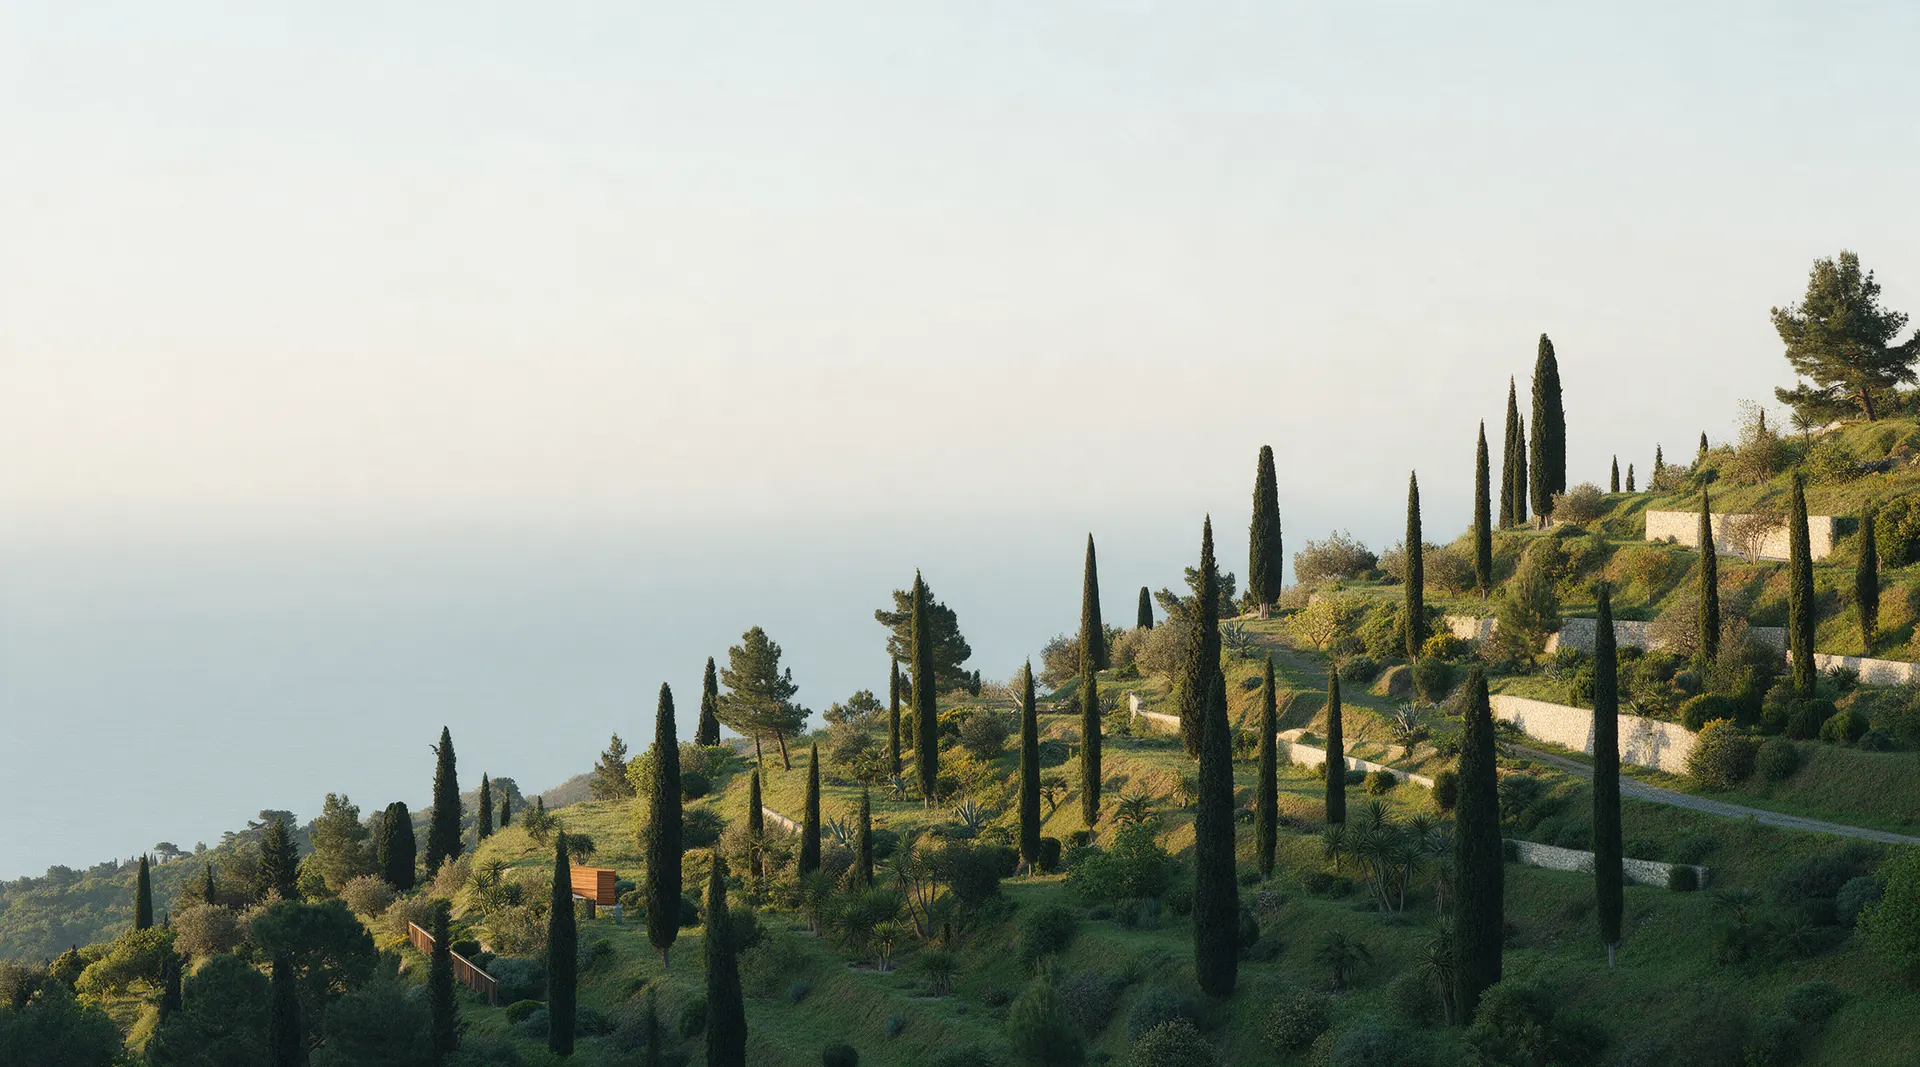
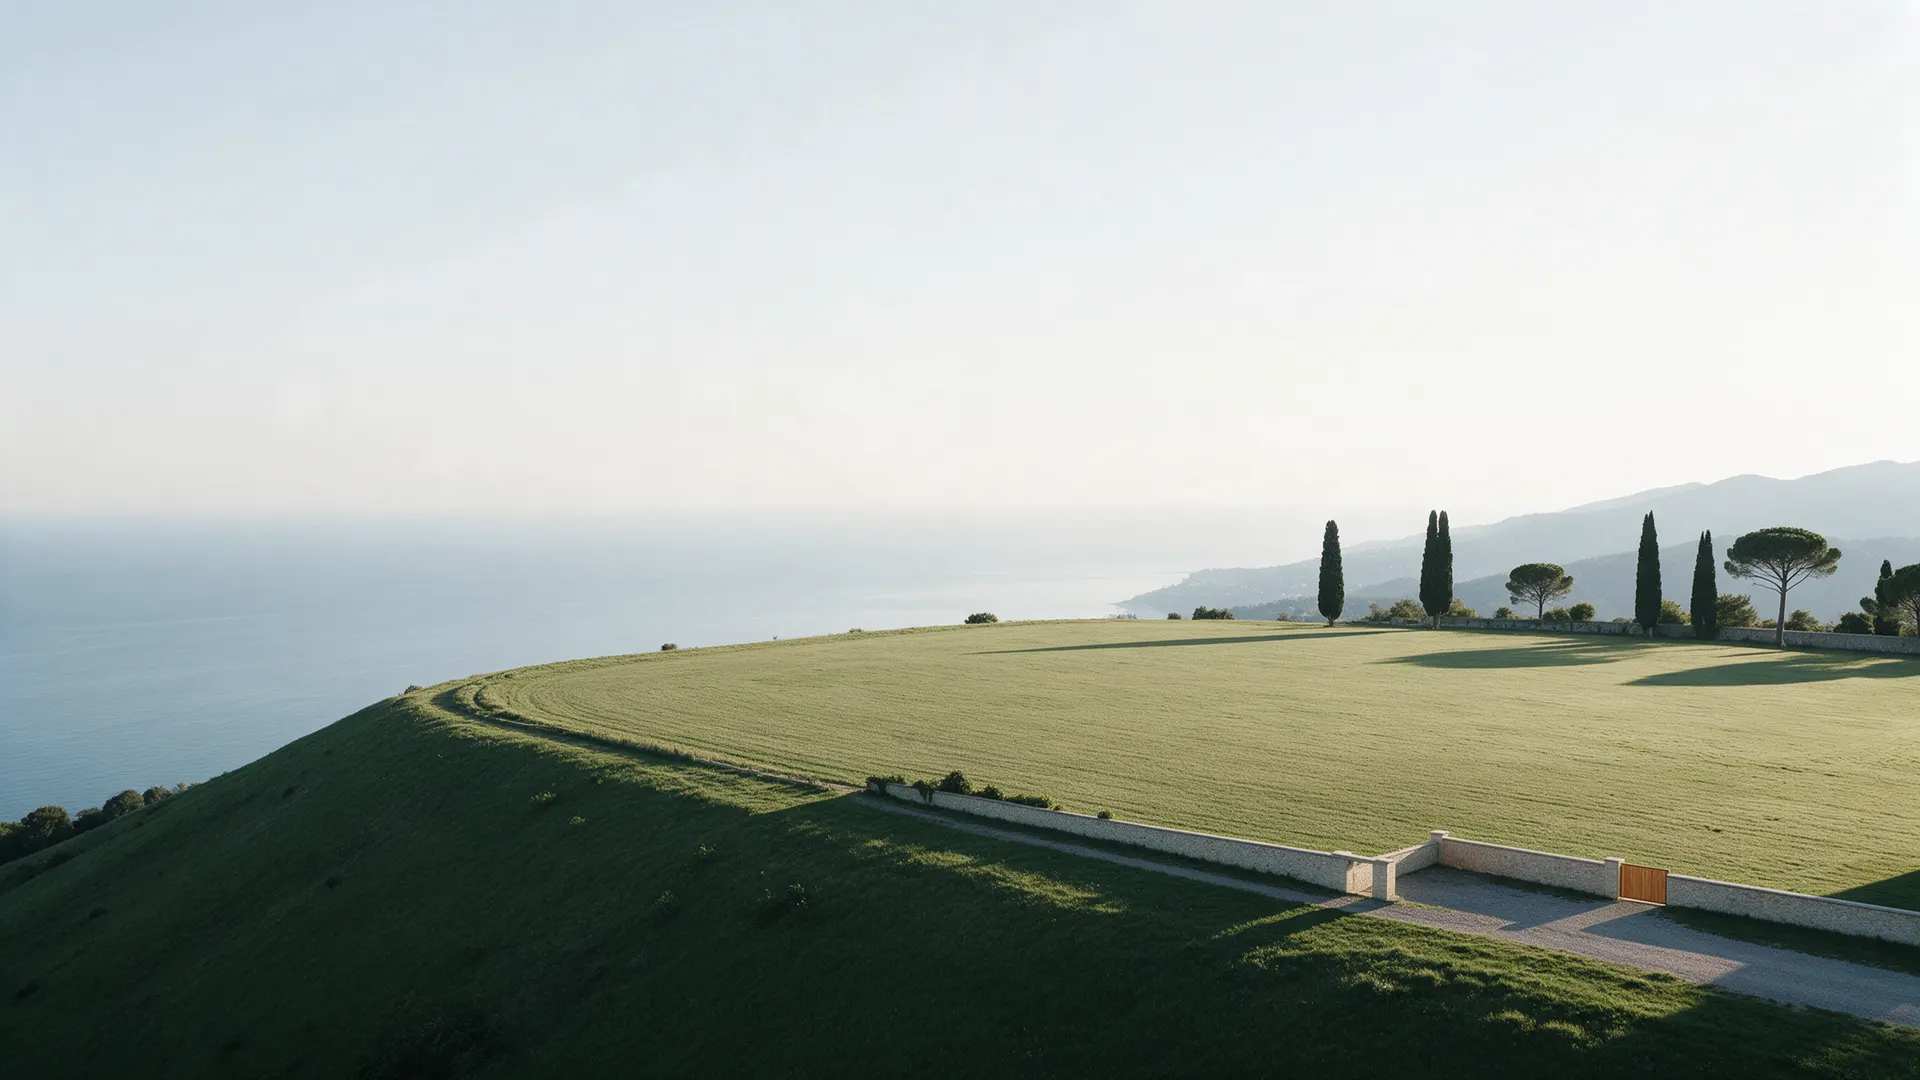
Первый экран: подъезд камеры к участку, новая картинка; полоса Живописные места рядом

diff --git a/index.html b/index.html
@@ -64,9 +64,14 @@
     .steps__title { top: 7.2rem !important; }
   }
 
-  /* ---- 1. первый экран: межа обходит участок ----------------------------- */
+  /* ---- 1. первый экран: камера подъезжает к участку ---------------------- */
+  .hero { --mx: .66; --my: .68; }                   /* где на фото стоит метка участка (доли кадра) */
   .hero [data-v-stage] { background: #c5d1cb; }
-  .hero__bg img { position: absolute; max-width: none; width: 112%; height: 112%; left: -6%; top: -6%; object-fit: cover; object-position: 58% 60%; content-visibility: visible; }
+  /* «мир» - кадр 16:9 с запасом 12%, как object-fit: cover; фото и метка живут в одних координатах */
+  .hero__world { position: absolute; left: 50%; top: 50%; width: max(112vw, calc(112svh * 16 / 9)); aspect-ratio: 16 / 9; translate: -50% -50%; }
+  .hero__zoom { position: absolute; inset: 0; transform-origin: calc(var(--mx) * 100%) calc(var(--my) * 100%);
+    transform: scale(calc(1 + var(--v-p, 0) * .42)); will-change: transform; }
+  .hero__zoom img { position: absolute; inset: 0; width: 100%; height: 100%; max-width: none; object-fit: cover; content-visibility: visible; }
   .hero__scrim { position: absolute; inset: 0; z-index: 2; pointer-events: none;
     background: linear-gradient(to right, rgb(233 236 230 / .9) 0%, rgb(233 236 230 / .6) 30%, rgb(233 236 230 / 0) 56%),
                 linear-gradient(to top, rgb(233 236 230 / .5) 0%, rgb(233 236 230 / 0) 26%); }
@@ -74,26 +79,56 @@
   .hero__copy h1 { max-width: 14ch; }
   .hero__copy .v-lede { margin-top: var(--v-5); max-width: 36ch; color: var(--v-ink); }
   .hero__copy .v-btn { margin-top: var(--v-6); }
-  .hero__plot { z-index: 3; }
-  .plotmap { position: absolute; right: calc(var(--v-gutter) + 1vw); top: 14vh; width: min(44vw, 40rem); aspect-ratio: 600 / 440; }
-  .plotmap svg { position: absolute; inset: 0; width: 100%; height: 100%; overflow: visible; }
-  .plotmap .halo, .plotmap .line { fill: none; stroke-linejoin: round; stroke-dasharray: 1 1; stroke-dashoffset: max(0, calc(.65 - var(--v-p, 0) * 1.3)); }
-  .plotmap .halo { stroke: rgb(255 255 255 / .75); stroke-width: 11; }
-  .plotmap .line { stroke: var(--v-accent); stroke-width: 5; }
-  .plotmap .area { fill: var(--v-accent); fill-opacity: clamp(0, calc(var(--v-p, 0) * .5), .22); }
-  .plotmap .stake { fill: var(--v-accent); stroke: #fff; stroke-width: 3; }
-  .plotmap__tag { white-space: nowrap; position: absolute; left: 46%; top: 3%; background: var(--v-surface); border-radius: var(--v-radius); box-shadow: var(--v-e2); padding: .6rem .85rem .65rem; line-height: 1.1; }
-  .plotmap__tag b { display: block; font-family: var(--v-font-display); font-size: 1.9rem; font-weight: 700; line-height: 1; }
-  .plotmap__tag span { display: block; margin-top: .25rem; font-size: var(--v-t-xs); color: var(--v-ink-soft); }
+  .hero__spot { z-index: 3; }
+  /* дымка расходится вокруг участка: фокус на метке, края светлеют */
+  .hero__fog { position: absolute; inset: -100%; pointer-events: none;
+    background: radial-gradient(circle at calc((1 + var(--mx)) / 3 * 100%) calc((1 + var(--my)) / 3 * 100%), rgb(233 236 230 / 0) 0, rgb(233 236 230 / 0) 11%, rgb(233 236 230 / .62) 24%);
+    opacity: clamp(0, calc(var(--v-p, 0) * 2.2), 1); }
+  .hero__mark { position: absolute; left: calc(var(--mx) * 100%); top: calc(var(--my) * 100%); width: 0; height: 0; }
+  .hero__mark i { position: absolute; left: -.55rem; top: -.55rem; width: 1.1rem; height: 1.1rem; border-radius: 50%; background: var(--v-accent); border: 3px solid #fff; box-shadow: 0 2px 10px rgb(0 0 0 / .3); }
+  .hero__mark::before, .hero__mark::after { content: ""; position: absolute; left: -1.6rem; top: -1.6rem; width: 3.2rem; height: 3.2rem; border-radius: 50%;
+    border: 2px solid var(--v-accent); opacity: 0; animation: hero-ping 2.6s ease-out infinite; }
+  .hero__mark::after { animation-delay: 1.3s; }
+  @keyframes hero-ping { 0% { transform: scale(.3); opacity: .9; } 100% { transform: scale(1.5); opacity: 0; } }
+  .hero__card { position: absolute; left: 0; top: 0; width: min(19.5rem, 62vw); translate: -50% calc(-100% - 1.7rem);
+    background: var(--v-surface); border-radius: var(--v-radius); box-shadow: var(--v-e2); padding: .85rem 1rem 1rem;
+    opacity: clamp(0, calc((var(--v-p, 0) - .04) * 12), 1); transform: translateY(calc((1 - clamp(0, calc((var(--v-p, 0) - .04) * 12), 1)) * 14px)); }
+  .hero__card::after { content: ""; position: absolute; left: 50%; bottom: -.45rem; width: .9rem; height: .9rem; background: var(--v-surface); transform: translateX(-50%) rotate(45deg); }
+  .hero__head { display: flex; align-items: baseline; justify-content: space-between; gap: .8rem; padding-bottom: .55rem; border-bottom: 1px solid rgb(0 0 0 / .12); }
+  .hero__head b { font-family: var(--v-font-display); font-size: 2rem; font-weight: 700; line-height: 1; white-space: nowrap; }
+  .hero__head span { font-size: var(--v-t-xs); color: var(--v-ink-soft); text-align: right; white-space: nowrap; }
+  .v-page .hero__list { list-style: none; margin: .55rem 0 0; padding: 0; display: grid; gap: .42rem; }
+  .v-page .hero__list li { position: relative; padding-left: 1.45rem; font-size: .9rem; line-height: 1.3;
+    opacity: clamp(0, calc((var(--v-p, 0) - var(--t)) * 16), 1); transform: translateX(calc((1 - clamp(0, calc((var(--v-p, 0) - var(--t)) * 16), 1)) * 10px)); }
+  .v-page .hero__list li::before { content: ""; position: absolute; left: .15rem; top: .22em; width: .38rem; height: .72rem; border: solid var(--v-accent); border-width: 0 3px 3px 0; transform: rotate(40deg); }
+  .v-page .hero__list li span { color: var(--v-ink-soft); }
+  .v-page .hero__price { margin: .65rem 0 0; font-family: var(--v-font-display); font-size: 1.5rem; font-weight: 700; line-height: 1;
+    opacity: clamp(0, calc((var(--v-p, 0) - .74) * 16), 1); }
   @media (max-width: 860px) {
     .hero__scrim { background: linear-gradient(to bottom, rgb(233 236 230 / .94) 0%, rgb(233 236 230 / .8) 34%, rgb(233 236 230 / 0) 58%); }
-    .hero__bg img { object-position: 62% 60%; }
-    .plotmap { width: 78vw; right: 4vw; top: auto; bottom: 5vh; }
-    .plotmap__tag { left: 3%; top: auto; bottom: 100%; margin-bottom: -.6rem; }
+    /* на телефоне метка по центру и ниже, карточка под ней: сверху остаётся место для заголовка */
+    .hero__world { left: 50%; top: 64%; translate: calc(var(--mx) * -100%) calc(var(--my) * -100%); }
+    .hero__card { translate: -50% 1.5rem; }
+    .hero__card::after { bottom: auto; top: -.45rem; }
+    .hero__card { padding: .6rem .8rem .7rem; width: min(17rem, 84vw); }
+    .hero__head { flex-wrap: wrap; row-gap: .1rem; padding-bottom: .4rem; }
+    .hero__head b { font-size: 1.5rem; }
+    .hero__head span { white-space: normal; text-align: left; }
+    .v-page .hero__list { margin-top: .4rem; gap: .28rem; }
+    .v-page .hero__list li { font-size: .8rem; line-height: 1.25; padding-left: 1.2rem; }
+    .v-page .hero__list li::before { width: .3rem; height: .58rem; border-width: 0 2.5px 2.5px 0; }
+    .v-page .hero__price { margin-top: .45rem; font-size: 1.25rem; }
     .hero__copy { left: var(--v-gutter); right: var(--v-gutter); top: 4.6rem; bottom: auto; max-width: none; }
     .hero__copy h1 { max-width: 13ch; }
     .hero__copy .v-lede { font-size: var(--v-t-base); }
     .hero__copy .v-btn { margin-top: var(--v-5); }
+  }
+  @media (max-width: 860px) and (max-height: 740px) { .hero__copy .v-lede { display: none; } }
+  @media (prefers-reduced-motion: reduce) {
+    .hero__zoom { transform: none; }
+    .hero__fog { opacity: 0; }
+    .hero__card, .v-page .hero__list li, .v-page .hero__price { opacity: 1; transform: none; }
+    .hero__mark::before, .hero__mark::after { animation: none; }
   }
 
   /* ---- 2. что проверяем: страх – ответ ------------------------------------ */
@@ -145,7 +180,18 @@
   .facts > div { display: flex; justify-content: space-between; gap: var(--v-4); padding-block: .8rem; border-bottom: 1px solid var(--v-hair); }
   .facts dt { color: var(--v-ink-soft); }
   .facts dd { text-align: right; font-weight: 500; }
-  @media (max-width: 860px) { .loc__grid { grid-template-columns: 1fr; } }
+  /* живописные места рядом: два кадра одной высоты, широкий и узкий */
+  .scenic { margin-top: clamp(4rem, 9vw, 8rem); }
+  .scenic__title { max-width: 18ch; }
+  .scenic__grid { display: grid; grid-template-columns: 8fr 4fr; gap: clamp(1rem, 3vw, 2.5rem); align-items: start; margin-top: var(--v-6); }
+  .scenic figure { margin: 0; }
+  .scenic img { display: block; width: 100%; height: clamp(14rem, 30vw, 25rem); object-fit: cover; border-radius: var(--v-radius); box-shadow: var(--v-e2); background: #c5d1cb; }
+  .scenic figcaption { margin-top: var(--v-3); font-size: var(--v-t-xs); color: var(--v-ink-soft); }
+  @media (max-width: 860px) {
+    .loc__grid { grid-template-columns: 1fr; }
+    .scenic__grid { grid-template-columns: 1fr; }
+    .scenic img { height: auto; aspect-ratio: 3 / 2; }
+  }
 
   /* ---- 5. как купить: межевая линия с колышками --------------------------- */
   .steps [data-v-stage] { background: var(--v-spruce); }
@@ -231,25 +277,28 @@
 
 <main id="top">
 
-<!-- 1. Первый экран: межа обходит участок. pin, три плана (фото, контур, реплика) -->
+<!-- 1. Первый экран: камера подъезжает к участку, карточка с документами заполняется. pin, три плана (фото, метка, реплика) -->
 <section class="hero" data-v-act="pin" data-v-span="2.6">
   <div data-v-stage>
-    <div class="v-layer hero__bg" data-v-parallax="-0.5"><img src="assets/hero.webp" alt="Склон холма с кипарисами над морем в районе Сочи" width="1920" height="1080" fetchpriority="high"></div>
+    <div class="v-layer hero__bg" data-v-parallax="-0.5">
+      <div class="hero__world"><div class="hero__zoom"><img src="assets/hero.webp" alt="Ровная поляна на вершине холма над морем в районе Сочи, по краю подпорная стенка и въезд" width="1920" height="1080" fetchpriority="high"></div></div>
+    </div>
     <div class="hero__scrim"></div>
-    <div class="v-layer hero__plot" data-v-parallax="-1">
-      <div class="plotmap" aria-hidden="true">
-        <svg viewBox="0 0 600 440">
-          <path class="area" d="M60 310 L140 100 L340 50 L530 140 L560 330 L300 395 Z"/>
-          <path class="halo" pathLength="1" d="M60 310 L140 100 L340 50 L530 140 L560 330 L300 395 Z"/>
-          <path class="line" pathLength="1" d="M60 310 L140 100 L340 50 L530 140 L560 330 L300 395 Z"/>
-          <circle class="stake" cx="60" cy="310" r="9"/>
-          <circle class="stake" cx="140" cy="100" r="9" style="opacity:clamp(0,calc((.35 + var(--v-p,0)*1.3 - .166)*12),1)"/>
-          <circle class="stake" cx="340" cy="50" r="9" style="opacity:clamp(0,calc((.35 + var(--v-p,0)*1.3 - .318)*12),1)"/>
-          <circle class="stake" cx="530" cy="140" r="9" style="opacity:clamp(0,calc((.35 + var(--v-p,0)*1.3 - .473)*12),1)"/>
-          <circle class="stake" cx="560" cy="330" r="9" style="opacity:clamp(0,calc((.35 + var(--v-p,0)*1.3 - .615)*12),1)"/>
-          <circle class="stake" cx="300" cy="395" r="9" style="opacity:clamp(0,calc((.35 + var(--v-p,0)*1.3 - .813)*12),1)"/>
-        </svg>
-        <div class="plotmap__tag"><b>{{площадь}} сот.</b><span>{{назначение земли}}</span></div>
+    <div class="v-layer hero__spot" data-v-parallax="-0.5" aria-hidden="true">
+      <div class="hero__world">
+        <div class="hero__fog"></div>
+        <div class="hero__mark"><i></i>
+          <div class="hero__card">
+            <div class="hero__head"><b>{{площадь}} сот.</b><span>Участок №{{номер}}</span></div>
+            <ul class="hero__list">
+              <li style="--t:.14"><span>Назначение:</span> {{назначение земли}}</li>
+              <li style="--t:.26"><span>Коммуникации:</span> {{коммуникации}}</li>
+              <li style="--t:.38"><span>Подъезд:</span> {{подъезд}}</li>
+              <li style="--t:.50"><span>Документы:</span> {{документы}}</li>
+            </ul>
+            <p class="hero__price">{{цена}}</p>
+          </div>
+        </div>
       </div>
     </div>
     <div class="v-copy v-copy--lead hero__copy" data-v-cue="0 1 0 0">
@@ -366,6 +415,20 @@
         <div><dt>Дорога к участку</dt><dd>{{дорога}}</dd></div>
         <div><dt>Рядом</dt><dd>{{что рядом}}</dd></div>
       </dl>
+    </div>
+  </div>
+
+  <div class="v-wrap scenic">
+    <h2 class="v-display scenic__title" data-v-in>Живописные места рядом</h2>
+    <div class="scenic__grid" data-v-in data-v-stagger="140">
+      <figure class="scenic__wide">
+        <img src="assets/scenic-slopes.webp" alt="Склон с кипарисами над морем в утреннем свете" width="1600" height="760" loading="lazy">
+        <figcaption>{{место 1}} – {{расстояние}} от участков</figcaption>
+      </figure>
+      <figure class="scenic__tall">
+        <img src="assets/scenic-terraces.webp" alt="Тропа по террасам среди кипарисов над морем" width="900" height="1125" loading="lazy">
+        <figcaption>{{место 2}} – {{расстояние}} от участков</figcaption>
+      </figure>
     </div>
   </div>
 </section>
